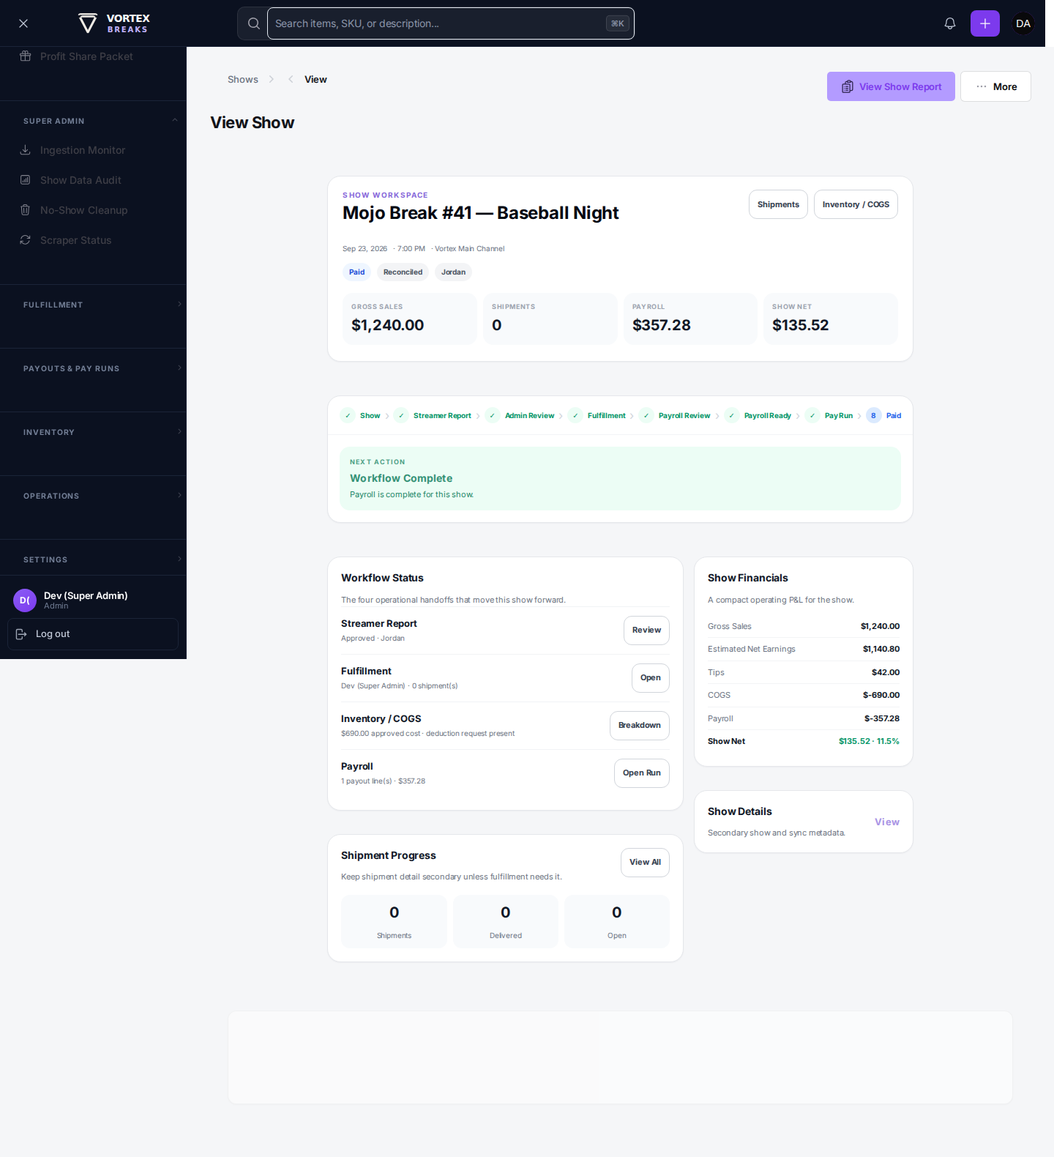
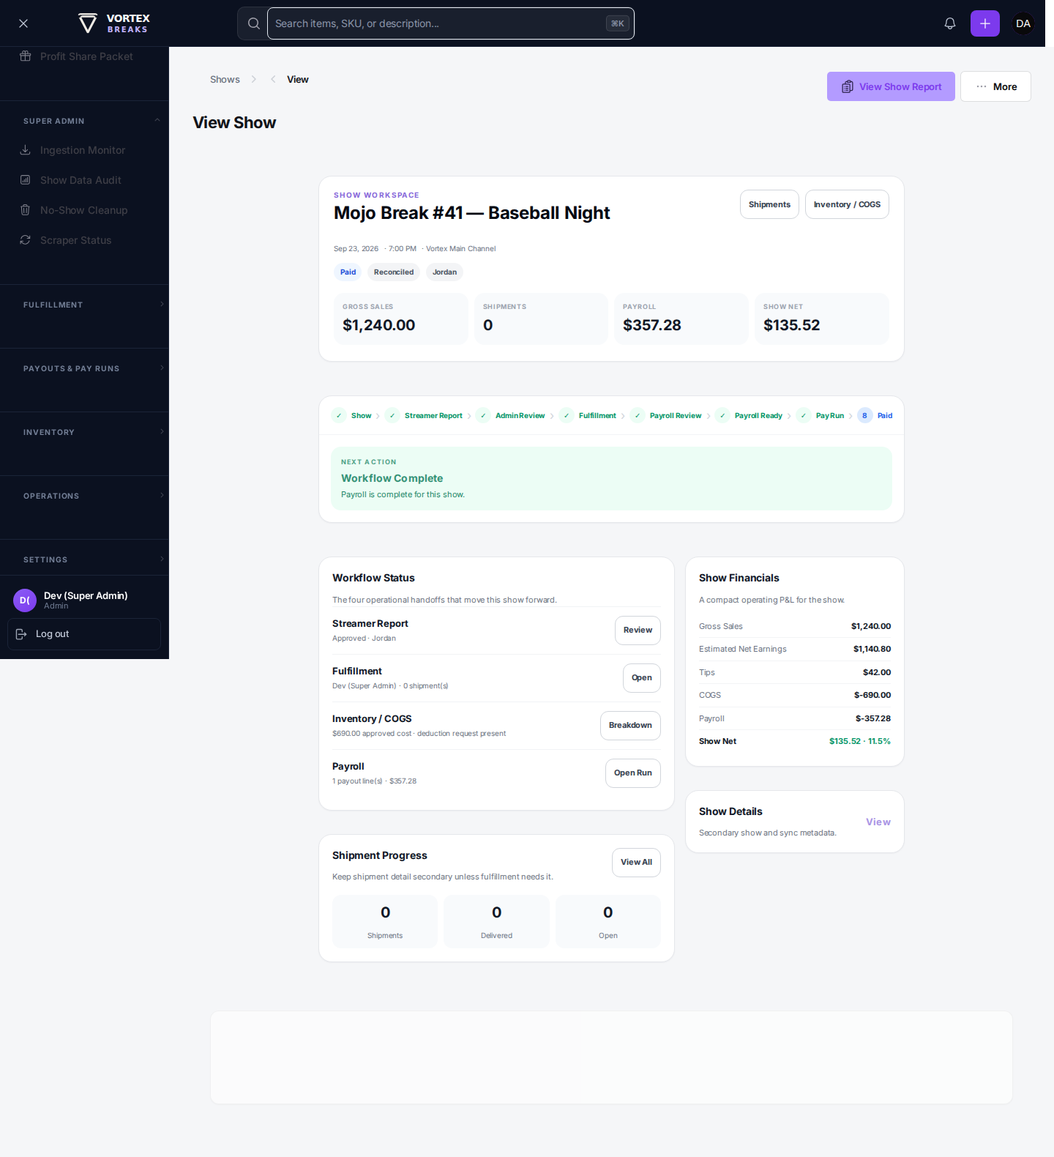
Unify mobile dropdowns, pickers and compact lists (#224)
* Unify mobile pickers, date controls and compact list pagination

* Refresh current handbook screenshots [handbook screenshots]

* Paginate read-only custom tables throughout the mobile workspace

* Refresh current handbook screenshots [handbook screenshots]

* Keep Dev streamer comparison columns inside the report width

* Refresh current handbook screenshots [handbook screenshots]

* Compact generated mobile table cards and default phone pages to five records

* Run mobile regressions on working-branch pushes while PR updates are delayed

* Compact generated KPI grids and isolate phone page-size preferences

* Refresh current handbook screenshots [handbook screenshots]

* Apply five-record phone defaults to resources with explicit pagination settings

* Use pagination methods supported by the installed Filament version

* Apply shared phone pickers inside navigation and action dialogs

* Refresh current handbook screenshots [handbook screenshots]

---------

diff --git a/resources/js/mobile-controls.js b/resources/js/mobile-controls.js
@@ -1,0 +1,168 @@
+import '../css/mobile-controls.css';
+
+// Enhance native controls without replacing their Livewire/form bindings.
+const phone = window.matchMedia('(max-width: 767px)');
+const controls = new Map();
+const collections = new Map();
+let dismiss = null;
+function labelFor(select) {
+    if (select.getAttribute('aria-label')) return select.getAttribute('aria-label');
+    const label = select.labels?.[0];
+    if (label) {
+        const copy = label.cloneNode(true);
+        copy.querySelectorAll('select,button,input').forEach(el => el.remove());
+        if (copy.textContent.trim()) return copy.textContent.trim();
+    }
+    return 'Choose an option';
+}
+function openPicker(select, trigger) {
+    dismiss?.();
+    const overlay = document.createElement('div');
+    overlay.className = 'vx-picker-overlay';
+    const panel = document.createElement('section');
+    panel.className = 'vx-mobile-picker-sheet';
+    panel.setAttribute('role', 'dialog');
+    panel.setAttribute('aria-modal', 'true');
+    panel.setAttribute('aria-label', labelFor(select));
+    const header = document.createElement('header');
+    const title = document.createElement('h2');
+    title.textContent = labelFor(select);
+    const done = document.createElement('button');
+    done.type = 'button'; done.textContent = select.multiple ? 'Done' : 'Close';
+    header.append(title, done);
+    const search = document.createElement('input');
+    search.type = 'search'; search.placeholder = 'Search options…';
+    search.setAttribute('aria-label', 'Search options'); search.autocomplete = 'off';
+    const list = document.createElement('div'); list.className = 'vx-picker-options';
+    const chosen = new Set([...select.selectedOptions].map(o => o.value));
+    const previousOverflow = document.body.style.overflow;
+    const close = () => {
+        overlay.remove(); document.body.style.overflow = previousOverflow;
+        trigger.setAttribute('aria-expanded', 'false');
+        if (trigger.isConnected) trigger.focus();
+        if (dismiss === close) dismiss = null;
+        document.removeEventListener('keydown', keyboard, true);
+    };
+    const commit = () => {
+        [...select.options].forEach(o => { o.selected = chosen.has(o.value); });
+        select.dispatchEvent(new Event('input', { bubbles: true }));
+        select.dispatchEvent(new Event('change', { bubbles: true }));
+        syncControl(select, trigger);
+        close();
+    };
+    const render = () => {
+        list.replaceChildren();
+        const options = [...select.options].filter(o => !o.hidden && o.text.toLowerCase().includes(search.value.toLowerCase()));
+        for (const option of options) {
+            const button = document.createElement('button');
+            button.type = 'button'; button.disabled = option.disabled || option.parentElement?.disabled;
+            button.setAttribute('aria-pressed', String(chosen.has(option.value)));
+            const text = document.createElement('span'); text.textContent = option.text;
+            const check = document.createElement('span'); check.textContent = chosen.has(option.value) ? '✓' : '';
+            check.setAttribute('aria-hidden', 'true'); button.append(text, check);
+            button.onclick = () => {
+                if (select.multiple) {
+                    chosen.has(option.value) ? chosen.delete(option.value) : chosen.add(option.value);
+                    render();
+                } else { chosen.clear(); chosen.add(option.value); commit(); }
+            };
+            list.append(button);
+        }
+        if (!options.length) { const empty = document.createElement('p'); empty.textContent = 'No matching options.'; list.append(empty); }
+    };
+    const keyboard = event => {
+        if (event.key === 'Escape') { event.stopImmediatePropagation(); event.preventDefault(); close(); }
+        if (event.key === 'Tab') {
+            const items = [...panel.querySelectorAll('button,input')].filter(el => !el.disabled);
+            const first = items[0], last = items.at(-1);
+            if (event.shiftKey && document.activeElement === first) { event.preventDefault(); last.focus(); }
+            else if (!event.shiftKey && document.activeElement === last) { event.preventDefault(); first.focus(); }
+        }
+    };
+    done.onclick = () => select.multiple ? commit() : close();
+    search.oninput = render;
+    overlay.onclick = event => { if (event.target === overlay) close(); };
+    panel.append(header, search, list); overlay.append(panel);
+    (select.closest('.fi-modal-window, .vx-mobile-menu-sheet') || document.body).append(overlay);
+    document.body.style.overflow = 'hidden';
+    trigger.setAttribute('aria-expanded', 'true');
+    document.addEventListener('keydown', keyboard, true);
+    dismiss = close; render(); search.focus();
+}
+function syncControl(select, trigger) {
+    const text = [...select.selectedOptions].map(o => o.text).join(', ') || 'Choose…';
+    if (trigger.textContent !== text) trigger.textContent = text;
+    trigger.disabled = select.disabled;
+    trigger.setAttribute('aria-label', labelFor(select) + ': ' + text);
+}
+function decorateControls() {
+    for (const [select, trigger] of controls) {
+        if (!select.isConnected || !trigger.isConnected) { trigger.remove(); select.classList.remove('vx-native-picker'); controls.delete(select); }
+    }
+    document.querySelectorAll('.fi-main select, .vx-mobile-menu-sheet select, .fi-modal-window select').forEach(select => {
+        // Filament's searchable choices already supply their own picker.
+        if (select.closest('[wire\\:ignore], .ts-wrapper, .choices') || select.tomselect || select.hidden || select.style.display === 'none') return;
+        let trigger = controls.get(select);
+        if (!trigger) {
+            trigger = document.createElement('button'); trigger.type = 'button';
+            trigger.className = 'vx-picker-trigger'; trigger.setAttribute('aria-haspopup', 'dialog');
+            trigger.setAttribute('aria-expanded', 'false');
+            trigger.onclick = () => openPicker(select, trigger);
+            select.addEventListener('change', () => syncControl(select, trigger));
+            select.addEventListener('invalid', event => {
+                if (phone.matches) { event.preventDefault(); openPicker(select, trigger); }
+            });
+            select.after(trigger); select.classList.add('vx-native-picker');
+            controls.set(select, trigger);
+        }
+        syncControl(select, trigger);
+    });
+}
+function paginate() {
+    document.querySelectorAll('[data-vx-mobile-page], .fi-main table:not(.fi-ta-table) > tbody').forEach(container => {
+        const rows = [...container.children].filter(el => !el.classList.contains('vx-mobile-pages'));
+        // Leave empty-state/total rows and Filament's server pagination alone.
+        if (container.tagName === 'TBODY' && rows.some(r => r.querySelector('[colspan],[rowspan],input,select,textarea,button,[contenteditable]'))) return;
+        if (rows.length <= 5) return;
+        let state = collections.get(container);
+        if (!state || state.rows.length !== rows.length || state.rows.some((r,i) => r !== rows[i]) || !state.nav.isConnected) {
+            state?.nav.remove();
+            const nav = document.createElement('nav'); nav.className = 'vx-mobile-pages';
+            nav.setAttribute('aria-label', 'List pages');
+            const prev = document.createElement('button'), next = document.createElement('button'), status = document.createElement('span');
+            prev.type = next.type = 'button'; prev.textContent = 'Previous'; next.textContent = 'Next';
+            status.setAttribute('aria-live', 'polite'); nav.append(prev,status,next);
+            const anchor = container.tagName === 'TBODY' ? container.closest('table').parentElement : container;
+            anchor.after(nav);
+            state = {rows,nav,prev,next,status,page:0};
+            prev.onclick = () => { state.page--; draw(state); };
+            next.onclick = () => { state.page++; draw(state); };
+            collections.set(container,state);
+        }
+        draw(state);
+    });
+    for (const [container,state] of collections) if (!container.isConnected) { state.nav.remove(); collections.delete(container); }
+}
+function draw(state) {
+    const pages = Math.ceil(state.rows.length / 5);
+    state.page = Math.max(0, Math.min(state.page,pages-1));
+    state.rows.forEach((row,i) => row.classList.toggle('vx-mobile-page-hidden', phone.matches && Math.floor(i/5) !== state.page));
+    state.prev.disabled = state.page === 0; state.next.disabled = state.page === pages-1;
+    const text = 'Page ' + (state.page+1) + ' of ' + pages + ' · ' + state.rows.length + ' items';
+    if (state.status.textContent !== text) state.status.textContent = text;
+}
+let scheduled = false;
+function schedule() {
+    if (scheduled) return;
+    scheduled = true;
+    requestAnimationFrame(() => { scheduled = false; decorateControls(); paginate(); });
+}
+function boot() {
+    decorateControls(); paginate();
+    new MutationObserver(schedule).observe(document.querySelector('.fi-body') || document.body, {childList:true,subtree:true});
+}
+phone.addEventListener('change', () => { dismiss?.(); for(const state of collections.values()) draw(state); });
+document.addEventListener('livewire:navigating', () => dismiss?.());
+document.addEventListener('livewire:navigated', schedule);
+if (document.readyState === 'loading') document.addEventListener('DOMContentLoaded',boot,{once:true}); else boot();
+

diff --git a/resources/css/mobile-controls.css b/resources/css/mobile-controls.css
@@ -1,0 +1,60 @@
+.vx-picker-trigger,.vx-mobile-pages{display:none}
+.vx-picker-overlay{position:fixed;inset:0;z-index:2147483100;display:flex;align-items:flex-end;justify-content:center;background:rgba(15,23,42,.48)}
+.vx-mobile-picker-sheet{width:100%;max-width:560px;max-height:85dvh;background:#fff;color:#182033;border-radius:22px 22px 0 0;padding:18px 16px calc(16px + env(safe-area-inset-bottom));box-shadow:0 -8px 40px #0003}
+.vx-mobile-picker-sheet header{display:flex;align-items:center;justify-content:space-between;gap:12px;margin-bottom:12px}
+.vx-mobile-picker-sheet h2{font-size:17px;font-weight:700;overflow-wrap:anywhere}
+.vx-mobile-picker-sheet header button{min-height:44px;padding:10px 14px;border-radius:10px;background:#ede9fe;color:#6d28d9;font-weight:600}
+.vx-mobile-picker-sheet input{width:100%;min-height:48px;padding:12px 14px;font-size:16px;border:1px solid #d9deea;border-radius:12px;background:#f8fafc;color:inherit}
+.vx-picker-options{max-height:min(48dvh,360px);overflow-y:auto;overscroll-behavior:contain;margin-top:10px}
+.vx-picker-options button{display:flex;justify-content:space-between;gap:12px;width:100%;min-height:48px;padding:12px 14px;border-radius:10px;text-align:left;font-size:15px;white-space:normal}
+.vx-picker-options button[aria-pressed=true]{background:#ede9fe;color:#6d28d9;font-weight:600}
+.vx-picker-options button:disabled{opacity:.4}
+.vx-picker-options p{padding:16px;color:#64748b}
+.dark .vx-mobile-picker-sheet{background:#182033;color:#e7eaf2}
+.dark .vx-mobile-picker-sheet input{background:#101827;border-color:#354158}
+.dark .vx-picker-options button[aria-pressed=true],.dark .vx-mobile-picker-sheet header button{background:#352658;color:#ddd6fe}
+@media(max-width:767px){
+.fi-main .vx-native-picker,.vx-mobile-menu-sheet .vx-native-picker,.fi-modal-window .vx-native-picker{display:none!important}
+.vx-picker-trigger{display:flex!important;align-items:center;justify-content:space-between;gap:12px;width:100%;min-height:48px;border:1px solid #d9deea;border-radius:12px;background:#fff;color:#182033;padding:12px 14px;font-size:16px;line-height:1.4;text-align:left;white-space:normal;overflow-wrap:anywhere}
+.vx-picker-trigger:after{content:'⌄';font-size:20px;flex-shrink:0;color:#7c3aed}
+.vx-picker-trigger:disabled{opacity:.5}
+.fi-main input[type=date],.fi-main input[type=time],.fi-main input[type=datetime-local],.fi-main select,.fi-main input[type=search]{min-height:48px!important;max-width:100%;min-width:0;font-size:16px!important;border-radius:12px!important}
+.fi-main input[type=date],.fi-main input[type=time],.fi-main input[type=datetime-local]{appearance:none;padding:12px 14px;border:1px solid #d9deea;background:#fff;color:#182033}
+.dark .vx-picker-trigger,.dark .fi-main input[type=date],.dark .fi-main input[type=time],.dark .fi-main input[type=datetime-local]{background:#182033;border-color:#354158;color:#e7eaf2;color-scheme:dark}
+.fi-main .vx-mobile-page-hidden{display:none!important}
+.vx-mobile-pages{display:flex;align-items:center;justify-content:space-between;gap:8px;margin:12px 0;padding:8px 0}
+.vx-mobile-pages button{min-height:44px;padding:10px 12px;border:1px solid #ddd6fe;border-radius:10px;color:#6d28d9;font-size:13px;font-weight:600;background:#fff}
+.vx-mobile-pages button:disabled{opacity:.4}
+.vx-mobile-pages span{font-size:12px;color:#68758d;text-align:center}
+.dark .vx-mobile-pages button{background:#182033;border-color:#59427e;color:#ddd6fe}
+.fi-main .fi-section-content,.fi-main .fi-fo-field-wrp{min-width:0}
+.fi-main .vx-person-card,.fi-main .vx-card,.fi-main .vx-an-panel{border-radius:14px}
+.fi-main .vx-person-card{padding:14px}
+.fi-main .sticky:has(input[type=date]){position:static}
+.fi-main .vx-an-kpis,.fi-main .vx-kpis{gap:10px}
+.fi-main .vx-an-bar-name,.fi-main .vx-name{white-space:normal;overflow-wrap:anywhere}
+.fi-main .vx-an-bar-value,.fi-main .vx-money strong{overflow-wrap:anywhere}
+}
+
+/* Keep wide streamer comparisons inside the report on desktop too. */
+.fi-main .vx-streamer-report table{table-layout:fixed!important;width:100%!important;min-width:0!important;max-width:100%!important}
+.fi-main .vx-streamer-report th,.fi-main .vx-streamer-report td{white-space:normal!important;overflow-wrap:anywhere!important}
+
+@media(max-width:767px){
+html body .fi-main .fi-ta-table > tbody > tr.fi-ta-row{display:grid!important;grid-template-columns:repeat(2,minmax(0,1fr))!important;gap:8px!important;padding:14px!important;min-height:0!important;margin-bottom:12px!important;border-radius:14px!important}
+html body .fi-main .fi-ta-table > tbody > tr.fi-ta-row > td.fi-ta-cell{grid-column:auto!important;display:flex!important;flex-direction:column!important;align-items:flex-start!important;justify-content:flex-start!important;gap:3px!important;padding:4px 0!important;min-height:0!important;width:auto!important;max-width:100%!important;border:0!important}
+html body .fi-main .fi-ta-table > tbody > tr.fi-ta-row > td.fi-ta-cell::before{content:attr(data-vx-label);font-size:10px!important;line-height:1.3!important;color:#68758d;text-transform:capitalize}
+html body .fi-main .fi-ta-table > tbody > tr.fi-ta-row > td.fi-ta-cell .fi-ta-col-wrp,html body .fi-main .fi-ta-table > tbody > tr.fi-ta-row > td.fi-ta-cell .fi-ta-text{padding:0!important;min-height:0!important;width:100%!important}
+html body .fi-main .fi-ta-table > tbody > tr.fi-ta-row > td.fi-ta-cell .fi-ta-text-item{white-space:normal!important;overflow-wrap:anywhere;font-size:13px!important;line-height:1.45!important}
+html body .fi-main .fi-ta-table > tbody > tr.fi-ta-row > td.fi-ta-cell.vx-mobile-title,html body .fi-main .fi-ta-table > tbody > tr.fi-ta-row > td.fi-ta-cell.vx-mobile-actions{grid-column:1/-1!important}
+html body .fi-main .fi-ta-table > tbody > tr.fi-ta-row > td.fi-ta-cell.vx-mobile-selection{grid-column:1/-1!important;padding:0!important}
+html body .fi-main .fi-ta-table > tbody > tr.fi-ta-row > td.fi-ta-cell.vx-mobile-selection::before,html body .fi-main .fi-ta-table > tbody > tr.fi-ta-row > td.fi-ta-cell.vx-mobile-actions::before{content:none!important}
+html body .fi-main .fi-ta-table > tbody > tr.fi-ta-row > td.fi-ta-cell.vx-mobile-omit{display:none!important}
+}
+
+@media(max-width:767px){
+.fi-main .grid:has(> .fi-section .vx-kpi-value){grid-template-columns:repeat(2,minmax(0,1fr))!important;gap:10px!important}
+.fi-main .grid:has(> .fi-section .vx-kpi-value) > .fi-section .fi-section-content{padding:12px!important}
+.fi-main .grid:has(> .fi-section .vx-kpi-value) .vx-kpi-value{font-size:20px!important;overflow-wrap:anywhere}
+.fi-main .grid:has(> .fi-section .vx-kpi-value) .text-sm{font-size:12px!important}
+}

diff --git a/tests/Browser/mobile-controls.spec.ts b/tests/Browser/mobile-controls.spec.ts
@@ -1,0 +1,30 @@
+import { test, expect } from '@playwright/test';
+import fs from 'node:fs';
+test('shared mobile controls preserve bindings, keyboard access and list pages', async ({ page }) => {
+    await page.setViewportSize({width:390,height:844});
+    await page.setContent('<main class="fi-main"><label>Location<select id="location"><option value="">All Locations</option><option value="1">Warehouse</option><option value="2">Brandon</option></select></label><div data-vx-mobile-page>'+Array.from({length:12},(_,i)=>'<article>Item '+i+'</article>').join('')+'</div></main>');
+    await page.addStyleTag({content:fs.readFileSync('resources/css/mobile-controls.css','utf8')});
+    await page.evaluate(() => { (window as any).changes=0; document.querySelector('select')!.addEventListener('change',()=>{(window as any).changes++;}); });
+    await page.addScriptTag({content:fs.readFileSync('resources/js/mobile-controls.js','utf8').replace(/^import .*;\n/,'')});
+    await page.getByRole('button',{name:'Location: All Locations',exact:true}).click();
+    await expect(page.getByRole('dialog',{name:'Location',exact:true})).toBeVisible();
+    await page.getByRole('searchbox').fill('bran');
+    await expect(page.getByRole('button',{name:'Warehouse',exact:true})).toHaveCount(0);
+    await page.getByRole('button',{name:'Brandon',exact:true}).click();
+    await expect(page.locator('#location')).toHaveValue('2');
+    expect(await page.evaluate(()=>(window as any).changes)).toBe(1);
+    await page.getByRole('button',{name:'Location: Brandon',exact:true}).click();
+    await page.getByRole('searchbox').press('Escape');
+    await expect(page.getByRole('dialog')).toHaveCount(0);
+    await expect(page.getByRole('button',{name:'Location: Brandon',exact:true})).toBeFocused();
+    await expect(page.locator('article:visible')).toHaveCount(5);
+    await page.getByRole('button',{name:'Next',exact:true}).click();
+    await expect(page.locator('article:visible')).toHaveCount(5);
+    await page.getByRole('button',{name:'Next',exact:true}).click();
+    await expect(page.locator('article:visible')).toHaveCount(2);
+    await expect(page.getByRole('button',{name:'Next',exact:true})).toBeDisabled();
+    await page.setViewportSize({width:1440,height:900});
+    await expect(page.locator('article:visible')).toHaveCount(12);
+    await expect(page.locator('#location')).toBeVisible();
+    await expect(page.locator('.vx-picker-trigger')).toBeHidden();
+});

diff --git a/tests/Browser/mobile-reports.spec.ts b/tests/Browser/mobile-reports.spec.ts
@@ -90,3 +90,14 @@ test('desktop table selection recovers cards when resized to mobile', async ({ p
     await expect(page.locator('.vx-catalog-view')).toBeVisible();
     await expect(page.getByRole('button', { name: 'Table', exact: true })).toBeHidden();
 });
+
+test('phone resource tables start with five compact records', async ({ page }) => {
+    await page.setViewportSize({ width:390, height:844 });
+    await page.setExtraHTTPHeaders({ 'User-Agent': 'Mozilla/5.0 (iPhone; CPU iPhone OS 18_0 like Mac OS X) Mobile' });
+    await page.goto('/admin/shows');
+    await page.waitForLoadState('networkidle');
+    await expect(page.locator('.fi-ta-table tbody tr.fi-ta-row')).toHaveCount(5);
+    const heights = await page.locator('.fi-ta-table tbody tr.fi-ta-row').evaluateAll(rows => rows.map(row => row.getBoundingClientRect().height));
+    expect(Math.max(...heights)).toBeLessThan(500);
+    await page.screenshot({path:'tests/Browser/output/phone-compact-shows.png',fullPage:true});
+});

diff --git a/resources/js/modal-lifecycle.js b/resources/js/modal-lifecycle.js
@@ -21,7 +21,7 @@
 
 // The mobile drawer also owns a focus trap and scroll lock. Treat it as
 // an open dialog so late-loading cleanup never dispatches Escape into it.
-const OPEN_MODAL = '.fi-modal.fi-modal-open, .fi-modal-window, .vx-mobile-menu-sheet';
+const OPEN_MODAL = '.fi-modal.fi-modal-open, .fi-modal-window, .vx-mobile-menu-sheet, .vx-mobile-picker-sheet';
 
 /**
  * Is a dialog genuinely on screen?

diff --git a/playwright.mobile-reports.config.ts b/playwright.mobile-reports.config.ts
@@ -2,7 +2,7 @@ import { defineConfig } from '@playwright/test';
 
 export default defineConfig({
     testDir: './tests/Browser',
-    testMatch: 'mobile-reports.spec.ts',
+    testMatch: ['mobile-reports.spec.ts', 'mobile-controls.spec.ts'],
     timeout: 240000,
     workers: 1,
     use: {

diff --git a/resources/js/app.js b/resources/js/app.js
@@ -1,3 +1,4 @@
+import './mobile-controls.js';
 import '../css/mobile-report-pass.css';
 // Some Filament/Livewire pages attach beforeunload guards after interactive
 // actions. In VortexOps those guards were sticking around after the action had

diff --git a/app/Filament/Resources/FulfillmentResource.php b/app/Filament/Resources/FulfillmentResource.php
@@ -167,8 +167,8 @@ class FulfillmentResource extends Resource
                 SelectFilter::make('fulfillment_user')->label('Assigned To')->relationship('fulfillmentUsers', 'name')->searchable()->preload(),
                 Filter::make('unassigned_only')->label('Needs assignment')->query(fn (Builder $query) => $query->whereDoesntHave('fulfillmentUsers')),
             ])
-            ->paginationPageOptions([15, 25, 50])
-            ->defaultPaginationPageOption(15)
+            ->paginationPageOptions(\App\Support\MobileTablePagination::options([15, 25, 50]))
+            ->defaultPaginationPageOption(\App\Support\MobileTablePagination::defaultPageSize(15))
             ->emptyStateIcon('heroicon-o-truck')
             ->emptyStateHeading('No fulfillment work')
             ->emptyStateDescription('Approved streamer reports assigned to fulfillment appear here automatically.');

diff --git a/app/Filament/Resources/InventoryMovementResource.php b/app/Filament/Resources/InventoryMovementResource.php
@@ -168,7 +168,7 @@ class InventoryMovementResource extends Resource
             ])
             ->headerActions([TableAction::make('export_csv')->label('Export CSV')->icon('heroicon-o-arrow-down-tray')->color('gray')->url(fn()=>route('export.movement-log'))->openUrlInNewTab()])
             ->actions([ViewAction::make()->size('sm')->iconButton()])
-            ->striped()->persistFiltersInSession()->paginationPageOptions([10,25,50])->defaultPaginationPageOption(25)->deferLoading()->defaultSort('created_at','desc');
+            ->striped()->persistFiltersInSession()->paginationPageOptions(\App\Support\MobileTablePagination::options([10,25,50]))->defaultPaginationPageOption(\App\Support\MobileTablePagination::defaultPageSize(25))->deferLoading()->defaultSort('created_at','desc');
     }
 
     public static function getRelations(): array { return []; }

diff --git a/resources/views/filament/pages/shows.blade.php b/resources/views/filament/pages/shows.blade.php
@@ -28,7 +28,7 @@
     @if($this->unassignedShows->isEmpty())
         <div class="rounded-lg border border-dashed bg-white p-5 text-center text-sm text-gray-500 dark:bg-gray-900">All shows in this period have a streamer assigned.</div>
     @else
-        <div class="vx-assignment-grid">
+        <div class="vx-assignment-grid" data-vx-mobile-page>
         @foreach($this->unassignedShows as $show)
             <div class="vx-assignment-item flex min-w-0 flex-wrap items-center gap-3">
                 <div class="min-w-0 flex-1"><div class="break-words font-semibold leading-snug">{{ $show->title }}</div><div class="mt-1 text-xs text-gray-500">{{ $show->show_date?->format('M j, Y') }} · {{ $show->start_time?->format('g:i A') ?: 'Time not set' }}</div></div>

diff --git a/app/Filament/Resources/ShipmentResource.php b/app/Filament/Resources/ShipmentResource.php
@@ -150,8 +150,8 @@ class ShipmentResource extends Resource
                     ->url(fn (Shipment $record) => $record->show ? ShowResource::getUrl('view', ['record' => $record->show]) : null)
                     ->visible(fn (Shipment $record) => (bool) $record->show),
             ])
-            ->paginationPageOptions([25, 50, 100])
-            ->defaultPaginationPageOption(50)
+            ->paginationPageOptions(\App\Support\MobileTablePagination::options([25, 50, 100]))
+            ->defaultPaginationPageOption(\App\Support\MobileTablePagination::defaultPageSize(50))
             ->striped()
             ->emptyStateIcon('heroicon-o-truck')
             ->emptyStateHeading('No shipments for this show yet');

diff --git a/app/Providers/AppServiceProvider.php b/app/Providers/AppServiceProvider.php
@@ -70,6 +70,13 @@ class AppServiceProvider extends ServiceProvider
 
     public function boot(): void
     {
+        // Keep generated resource tables short on phones; desktop preferences stay unchanged.
+        \Filament\Tables\Table::configureUsing(function (\Filament\Tables\Table $table): void {
+            if (preg_match('/Android|iPhone|iPad|Mobile/i', (string) request()->userAgent())) {
+                $table->paginationPageOptions([5, 10, 25, 50])->defaultPaginationPageOption(5);
+            }
+        }, isImportant: true);
+
         Model::preventLazyLoading(! app()->isProduction());
 
         Gate::before(function ($user, $ability) {
